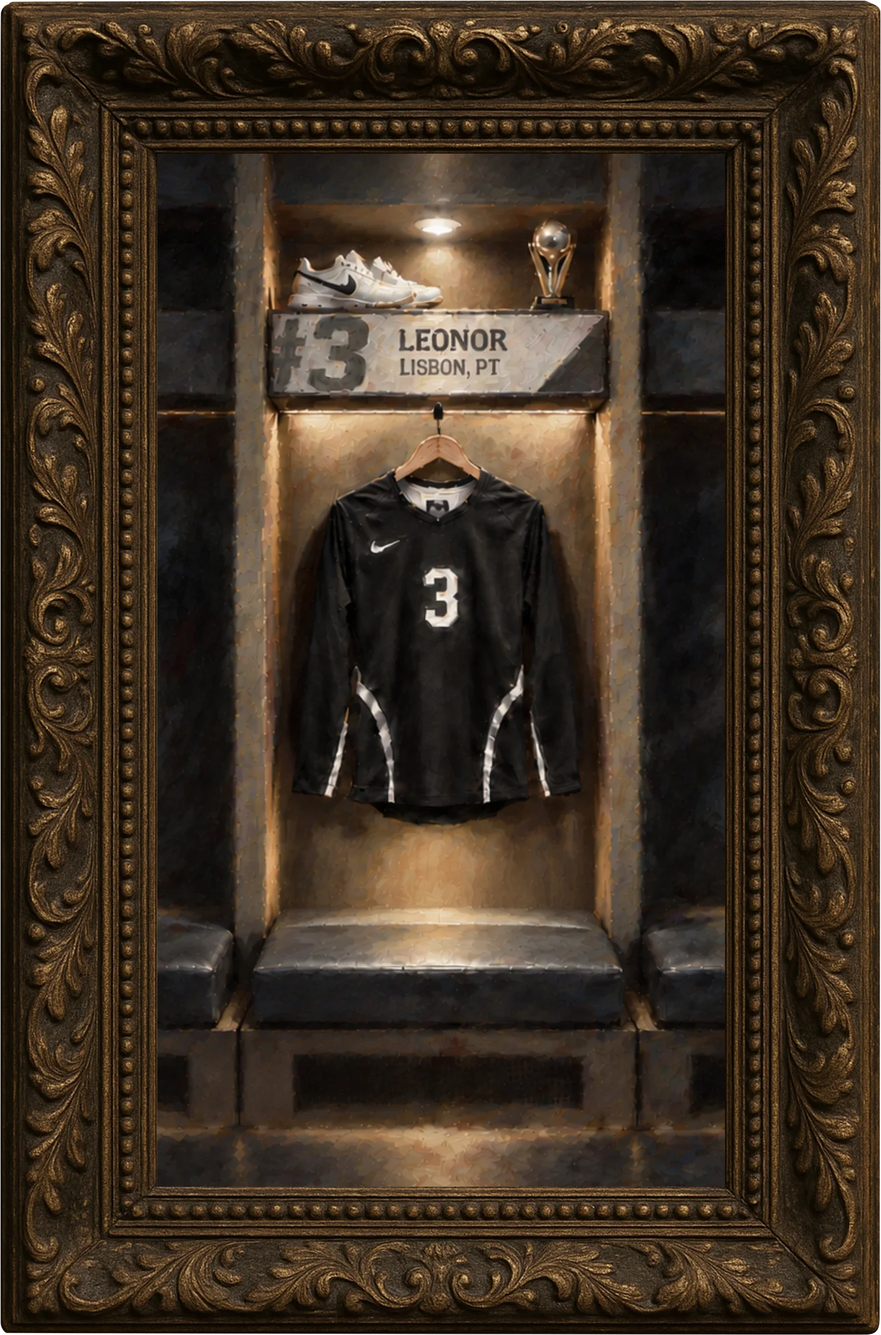
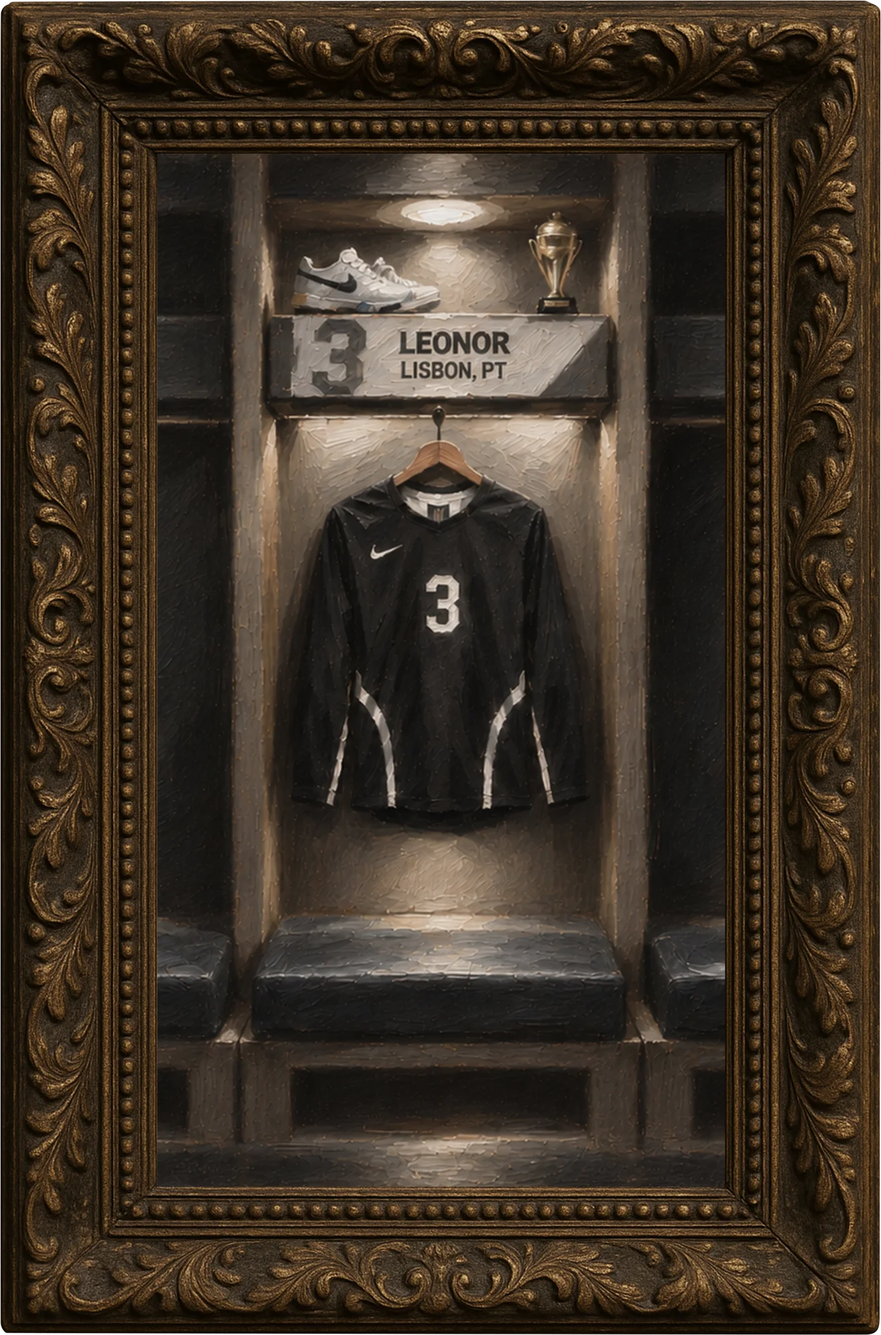
Prototype: subtle edge arrows instead of the progress bar; updated Last Touch painting

diff --git a/style.css b/style.css
@@ -97,7 +97,7 @@ body[data-view="splash"] .nav { display: none; }
 body.zoomed .walk { overflow: hidden; cursor: zoom-out; }
 #path { display: contents; }
 
-body[data-view="splash"] :is(.room-light, .route) { display: none; }
+body[data-view="splash"] :is(.room-light, .edge) { display: none; }
 
 /* The room is dim; the light sits where the visitor stands and comes up in front of a painting */
 .room-light {
@@ -112,10 +112,6 @@ body.cut .veil { opacity: 1; }
 .stop { position: relative; flex: none; height: 100svh; }
 .title-stop { width: 80vw; display: grid; place-items: center; padding-left: 10vw; }
 .title img { display: block; width: min(52vw, 100svh * .86); height: auto; }
-.start { position: absolute; right: 6vw; bottom: 6svh; color: var(--cream); opacity: .85; padding: 10px; transition: opacity .3s, translate .3s; }
-.start svg { display: block; stroke-width: 1.4; }
-.start svg { width: 22px; height: 44px; }
-.start:hover { opacity: 1; translate: 4px 0; }
 
 @keyframes fade { from { opacity: 0; } to { opacity: 1; } }
 
@@ -155,13 +151,16 @@ body.zoomed .nav { opacity: 0; pointer-events: none; }
 .audio-note { font-style: italic; text-align: right; opacity: 0; margin-top: -1em; transition: opacity .4s; }
 .audio-note.show { opacity: .85; }
 
-/* ---------- The bar: how far along the exhibition you are ---------- */
-.route {
-  position: fixed; left: 50%; bottom: 3svh; translate: -50% 0; z-index: 6; width: min(340px, 44vw); height: 2px;
-  background: rgba(243,234,215,.22); transition: opacity .5s ease, visibility .5s;
+/* ---------- Two quiet arrows ---------- */
+.edge {
+  position: fixed; top: 50%; translate: 0 -50%; z-index: 6; padding: 18px 14px; color: var(--cream); opacity: .45;
+  filter: drop-shadow(0 0 4px rgba(0,0,0,.9)); transition: opacity .4s ease, visibility .4s;
 }
-body:not(.past-title) .route, body.zoomed .route { opacity: 0; visibility: hidden; }
-.route-fill { position: absolute; inset: 0; background: var(--gold); transform: scaleX(0); transform-origin: left; }
+.edge.prev { left: clamp(6px, 1.4vw, 24px); }
+.edge.next { right: clamp(6px, 1.4vw, 24px); }
+.edge svg { display: block; width: 13px; height: 26px; stroke-width: 1.2; }
+.edge:hover, .edge:focus-visible { opacity: .85; outline: none; }
+body.zoomed .edge { opacity: 0; visibility: hidden; }
 
 /* ---------- Flyer and letter ---------- */
 .sheet {
@@ -215,7 +214,6 @@ body:not(.past-title) .route, body.zoomed .route { opacity: 0; visibility: hidde
   .room-light { background: radial-gradient(ellipse 90vw 70svh at 50% 42%, transparent 62%, rgba(8,5,3,.55) 100%); }
   .title-stop { width: 100vw; padding-left: 0; }
   .title img { width: 90vw; }
-  .start { right: 14px; bottom: 11svh; }
   .work { width: 100vw; flex-direction: column; align-items: center; gap: 16px; padding: 72px 16px 90px; overflow-y: auto; }
   .frame { width: calc(var(--w) * min(88vw / 547, 54svh / 507)); }
   .label { width: 100%; max-width: 460px; margin: 0; align-self: center; font-size: 15px; line-height: 1.45; cursor: default; }
@@ -224,7 +222,8 @@ body:not(.past-title) .route, body.zoomed .route { opacity: 0; visibility: hidde
   .composition { width: calc(78svh * 16 / 9); }
   .phones svg { width: 22px; height: 22px; }
   .audio-note { margin-top: -.6em; }
-  .route { width: 60vw; bottom: 18px; }
+  /* at the foot of the screen, clear of the painting and the text */
+  .edge { top: auto; bottom: calc(14px + env(safe-area-inset-bottom)); translate: none; padding: 10px 14px; }
   .letter { padding: 26px 20px; }
 }
 @media (prefers-reduced-motion: reduce) {

diff --git a/app.js b/app.js
@@ -76,7 +76,7 @@ const works = [
 
 const ui = {
   en: {
-    "nav.overview": "See all the works", "start": "Start the visit",
+    "nav.overview": "See all the works", "prev": "Previous", "next": "Next",
     "e.quote": "It is a truth universally acknowledged, that a young professional in possession of a portfolio must be in want of visitors.",
     "e.cite": "— The curators",
     "act.flyer": "Flyer", "act.contact": "Contact",
@@ -93,7 +93,7 @@ const ui = {
     "mail.off": "The post office isn't open yet — this form will work soon.",
   },
   pt: {
-    "nav.overview": "Ver todas as obras", "start": "Começar a visita",
+    "nav.overview": "Ver todas as obras", "prev": "Anterior", "next": "Seguinte",
     "e.quote": "É uma verdade universalmente reconhecida que uma jovem profissional, na posse de um portfólio, há de andar à procura de quem o queira ver.",
     "e.cite": "— A curadoria",
     "act.flyer": "Folheto", "act.contact": "Contacto",
@@ -126,7 +126,8 @@ function translate(root = document) {
   $("title-img").src = `img/title-${lang}.webp`;
   $("title-img").alt = `Leonor. ${t("e.quote")} ${t("e.cite")}`;
   $("sheet-close").setAttribute("aria-label", t("close"));
-  $("start").setAttribute("aria-label", t("start"));
+  $("prev").setAttribute("aria-label", t("prev"));
+  $("next").setAttribute("aria-label", t("next"));
 }
 
 function setLang(next) {
@@ -305,7 +306,8 @@ window.addEventListener("pointerup", () => {
   walk.addEventListener("click", (ev) => { ev.stopPropagation(); ev.preventDefault(); }, { capture: true, once: true });
 });
 
-$("start").addEventListener("click", () => travel(1));
+$("prev").addEventListener("click", () => travel(current - 1));
+$("next").addEventListener("click", () => travel(current + 1));
 
 // ---------- Everything that follows the visitor: the light, the forest, the line, the address ----------
 function onWalk() {
@@ -326,9 +328,8 @@ function onWalk() {
   document.body.classList.toggle("past-title", walk.scrollLeft > w * 0.3);
   document.body.classList.toggle("at-end", current === lastStop);
 
-  const done = Math.max(0, Math.min(1, (f - 1) / (works.length - 1)));
-  $("route-fill").style.transform = `scaleX(${done})`;
-  $("route").setAttribute("aria-valuenow", Math.round(done * 100));
+  $("prev").hidden = current === 0;
+  $("next").hidden = current === lastStop;
 
   // a reload or the back button returns to the same place on the wall
   const place = current === 0 ? "intro" : current === lastStop ? "gallery" : works[current - 1].slug;

diff --git a/index.html b/index.html
@@ -37,7 +37,6 @@
   <section class="walk" id="walk" hidden>
     <div class="stop title-stop">
       <h1 class="title"><img id="title-img" src="img/title-en.webp" alt=""></h1>
-      <button type="button" class="start" id="start" aria-label="Start"><svg viewBox="0 0 24 48" aria-hidden="true"><path d="M4 4l16 20L4 44"/></svg></button>
     </div>
     <div id="path"></div>
     <div class="stop end-stop">
@@ -47,8 +46,9 @@
   <div class="room-light" aria-hidden="true"></div>
   <div class="veil" aria-hidden="true"></div>
 
-  <!-- A thin bar that fills as you walk the exhibition -->
-  <div class="route" id="route" role="progressbar" aria-valuemin="0" aria-valuemax="100"><span class="route-fill" id="route-fill"></span></div>
+  <!-- Two quiet arrows at the edges of the wall -->
+  <button type="button" class="edge prev" id="prev" aria-label="Previous"><svg viewBox="0 0 24 48" aria-hidden="true"><path d="M20 4L4 24l16 20"/></svg></button>
+  <button type="button" class="edge next" id="next" aria-label="Next"><svg viewBox="0 0 24 48" aria-hidden="true"><path d="M4 4l16 20L4 44"/></svg></button>
 
   <!-- Flyer and letter, opened from the top bar -->
   <div class="sheet" id="sheet" hidden>
